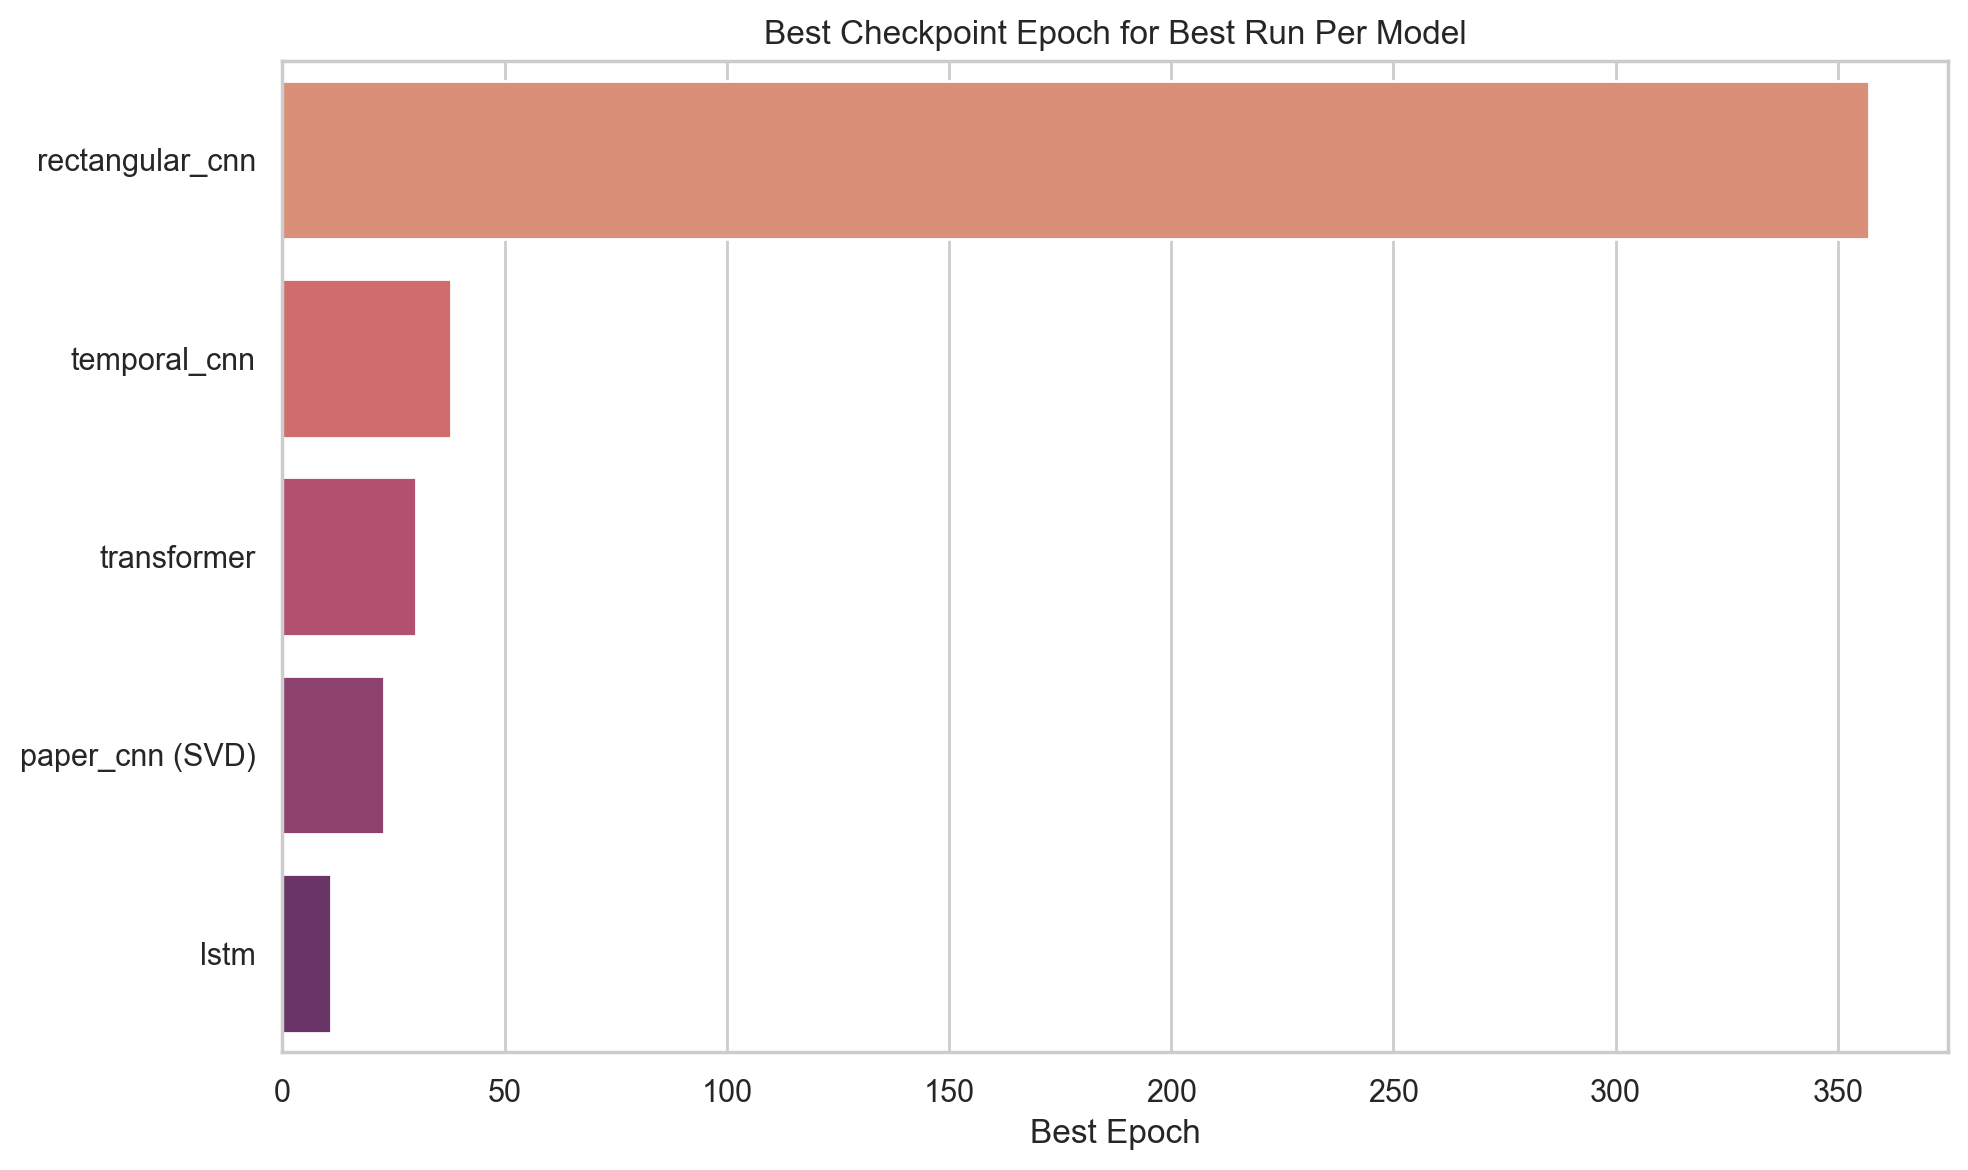
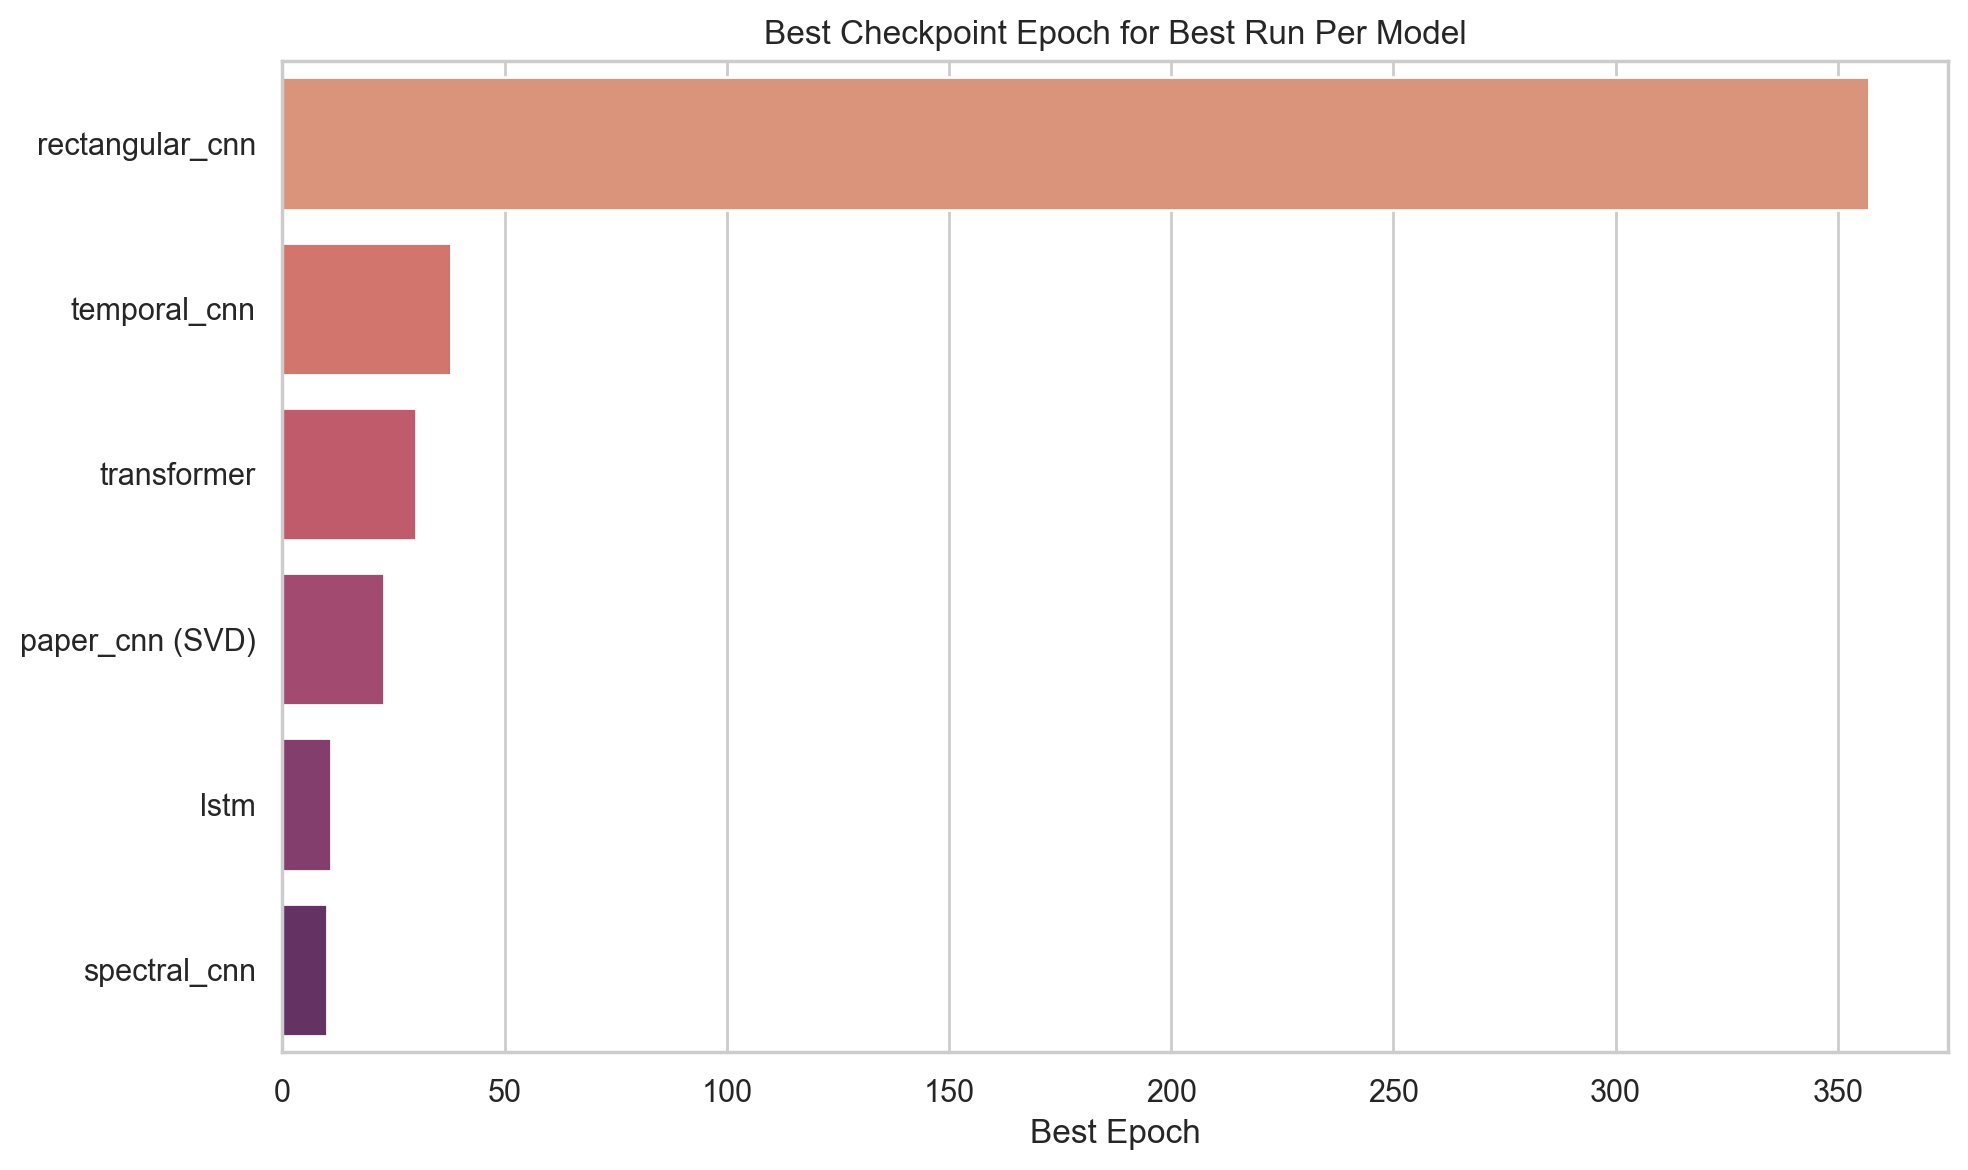
...

diff --git a/outputs/visualizations/spectral_cnn/report.md b/outputs/visualizations/spectral_cnn/report.md
@@ -1,0 +1,23 @@
+# spectral_cnn
+
+- Run folder: `spectral_cnn`
+- Metrics file: `outputs\spectral_cnn\metrics.json`
+- Accuracy: 0.7404
+- Macro F1: 0.4122
+- Weighted F1: 0.6903
+- Best epoch: 10
+
+## Classification Report
+
+```text
+              precision    recall  f1-score   support
+
+           0       0.00      0.00      0.00        35
+           1       0.56      0.23      0.32       221
+           2       0.75      0.96      0.84       847
+           3       0.79      0.35      0.48       118
+
+    accuracy                           0.74      1221
+   macro avg       0.53      0.38      0.41      1221
+weighted avg       0.70      0.74      0.69      1221
+```

diff --git a/outputs/visualizations/comparison_report.md b/outputs/visualizations/comparison_report.md
@@ -10,6 +10,8 @@
   Macro F1=0.5441, Accuracy=0.7445, Best epoch=30
 - `lstm`: run `lstm` (baseline)
   Macro F1=0.4357, Accuracy=0.6994, Best epoch=11
+- `spectral_cnn`: run `spectral_cnn` (baseline)
+  Macro F1=0.4122, Accuracy=0.7404, Best epoch=10
 - `paper_cnn`: run `paper_cnn_svd` (SVD)
   Macro F1=0.2189, Accuracy=0.6945, Best epoch=23
 
